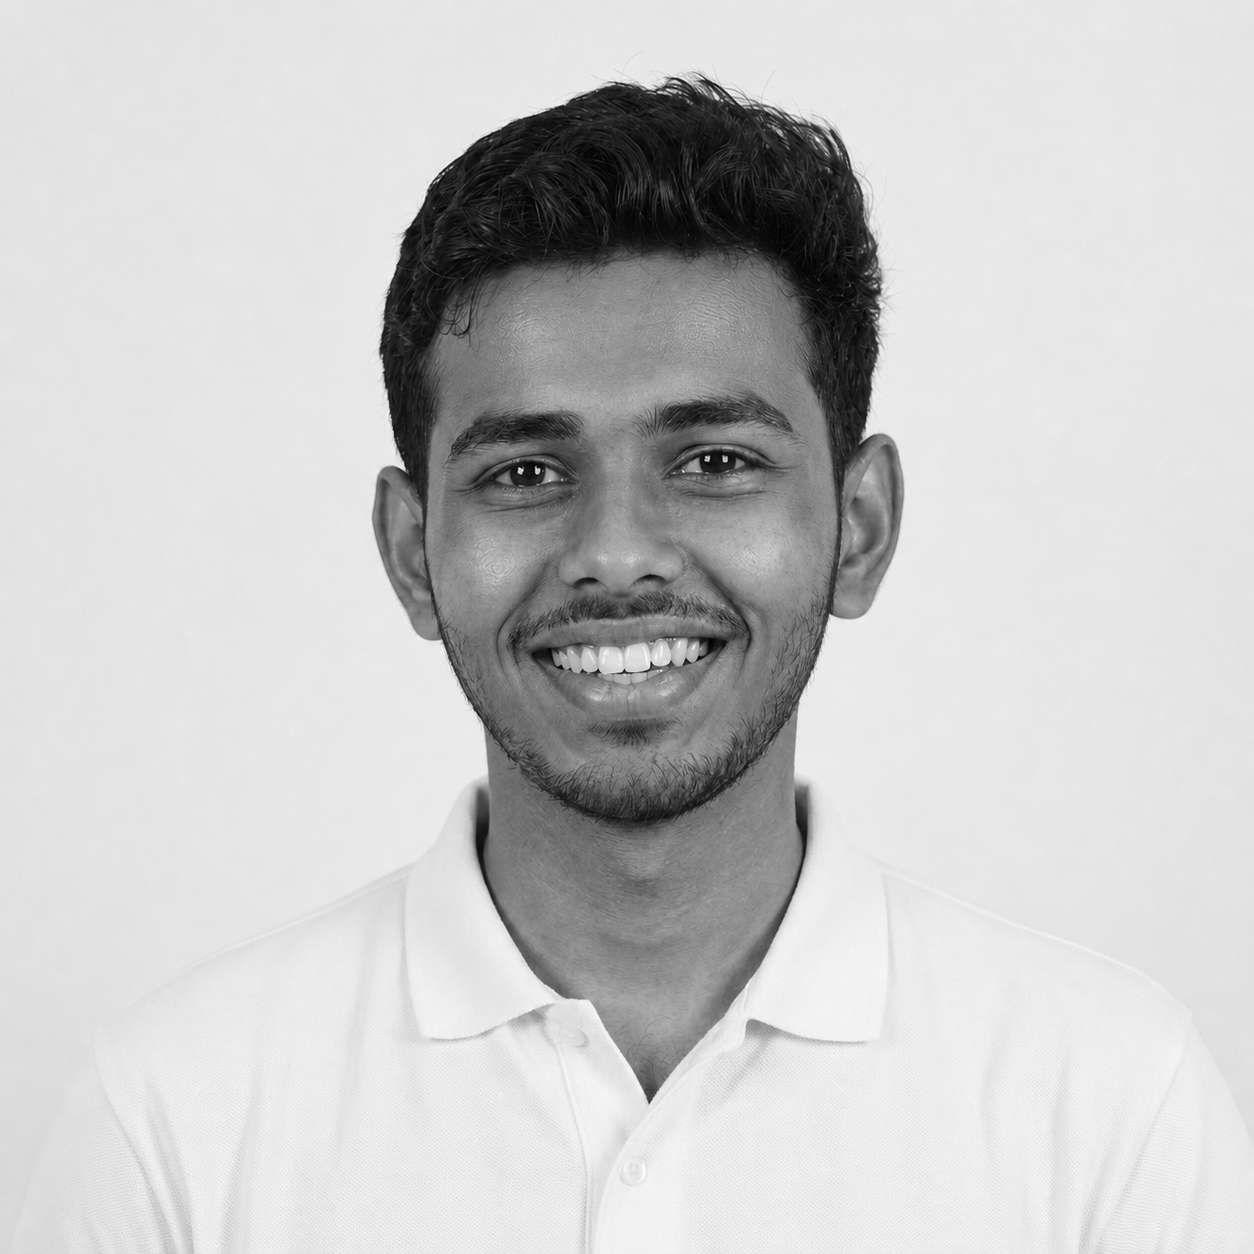
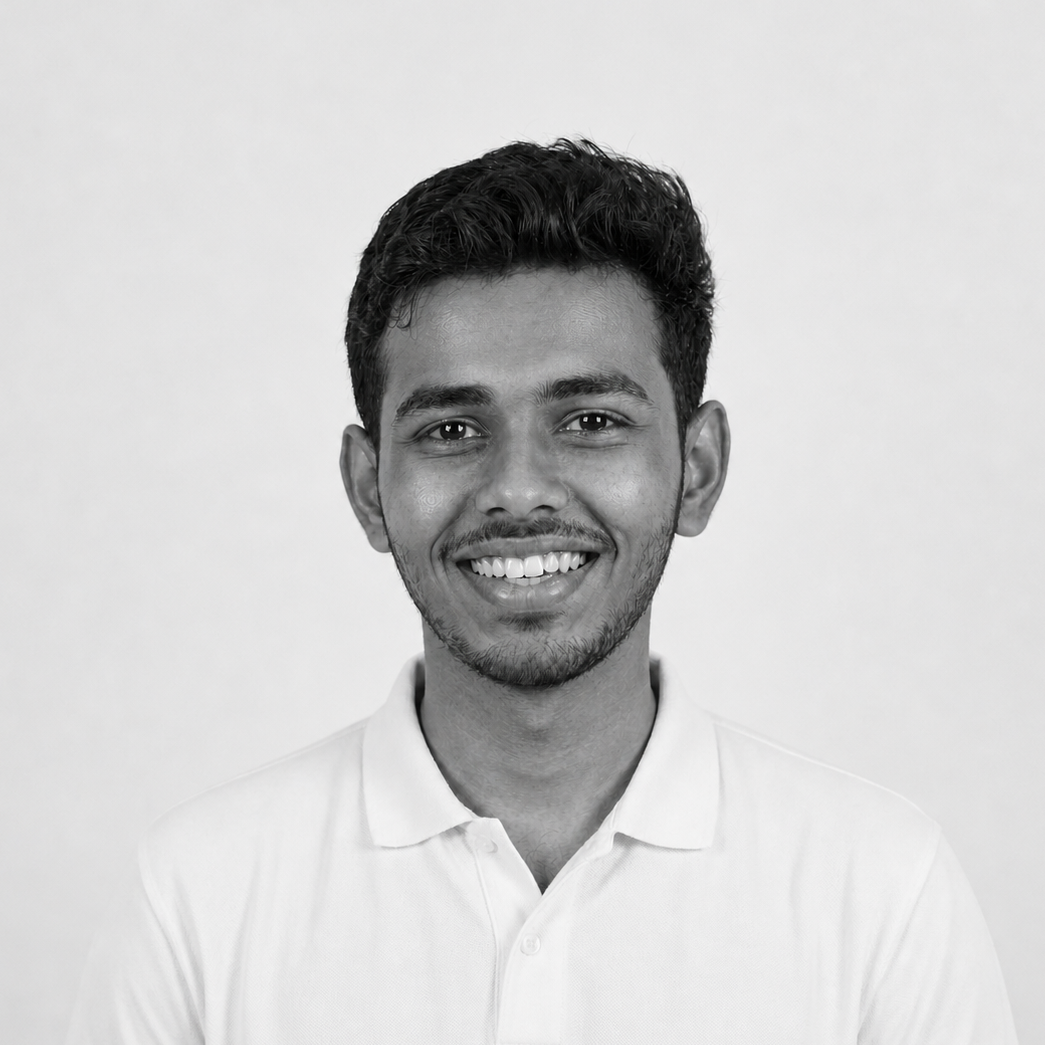
Refine Anand Bora profile

diff --git a/site/about/index.html b/site/about/index.html
@@ -89,7 +89,7 @@
                 <img src="/assets/images/anand-bora.webp" width="960" height="960" alt="Anand Bora, AI Engineer at Flid" loading="lazy" decoding="async">
                 <figcaption><h3><a href="https://www.linkedin.com/in/anand-bora/">Anand Bora <span aria-hidden="true">↗</span></a></h3><p>AI Engineer · Pune</p></figcaption>
               </figure>
-              <p>Anand is an AI Engineer at Flid working on LeapView. He builds product capabilities and the engineering foundations behind them, drawing on experience across backend systems, frontend systems, applied AI, cloud infrastructure, and security to create simple, reliable software for production.</p>
+              <p>Anand is an AI Engineer at Flid working on LeapView. He builds simple, accessible visual experiences for powerful systems, drawing on frontend architecture, product interfaces, and applied AI to create reliable software that connects intelligent technology with real-world workflows.</p>
             </article>
           </div>
         </div>
